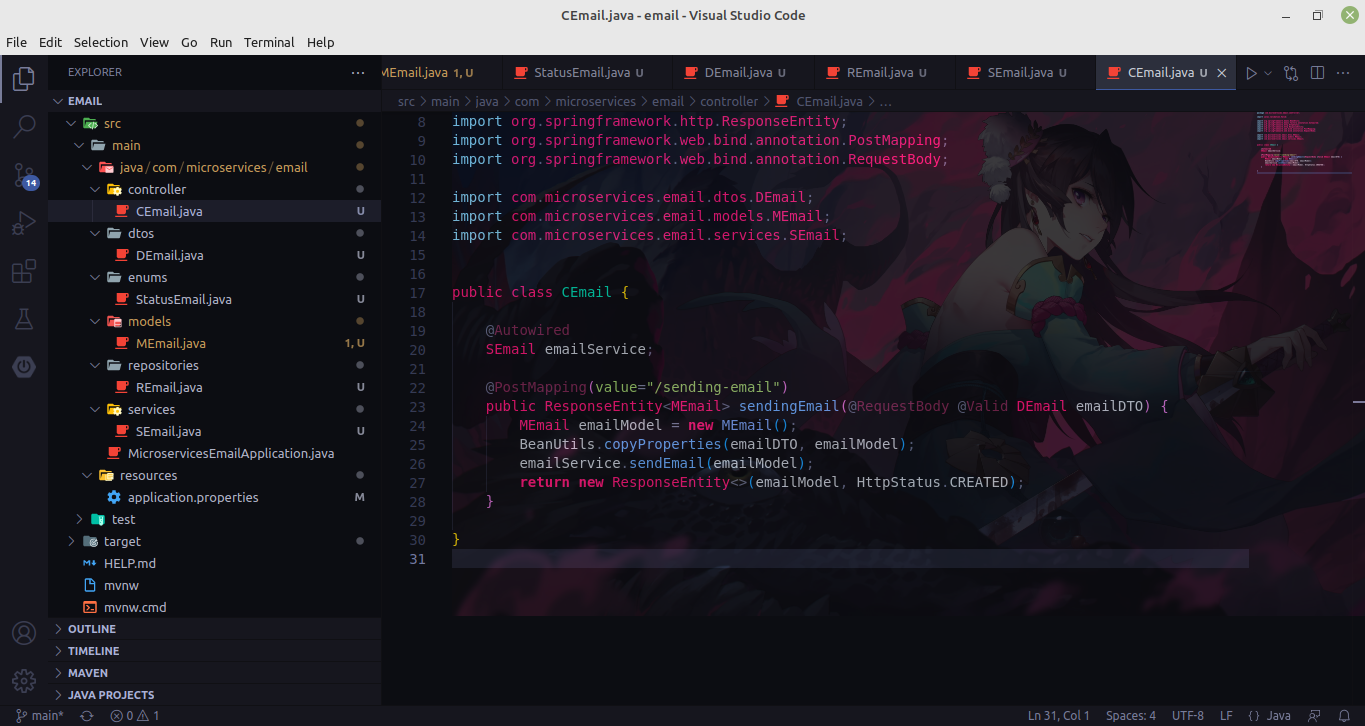
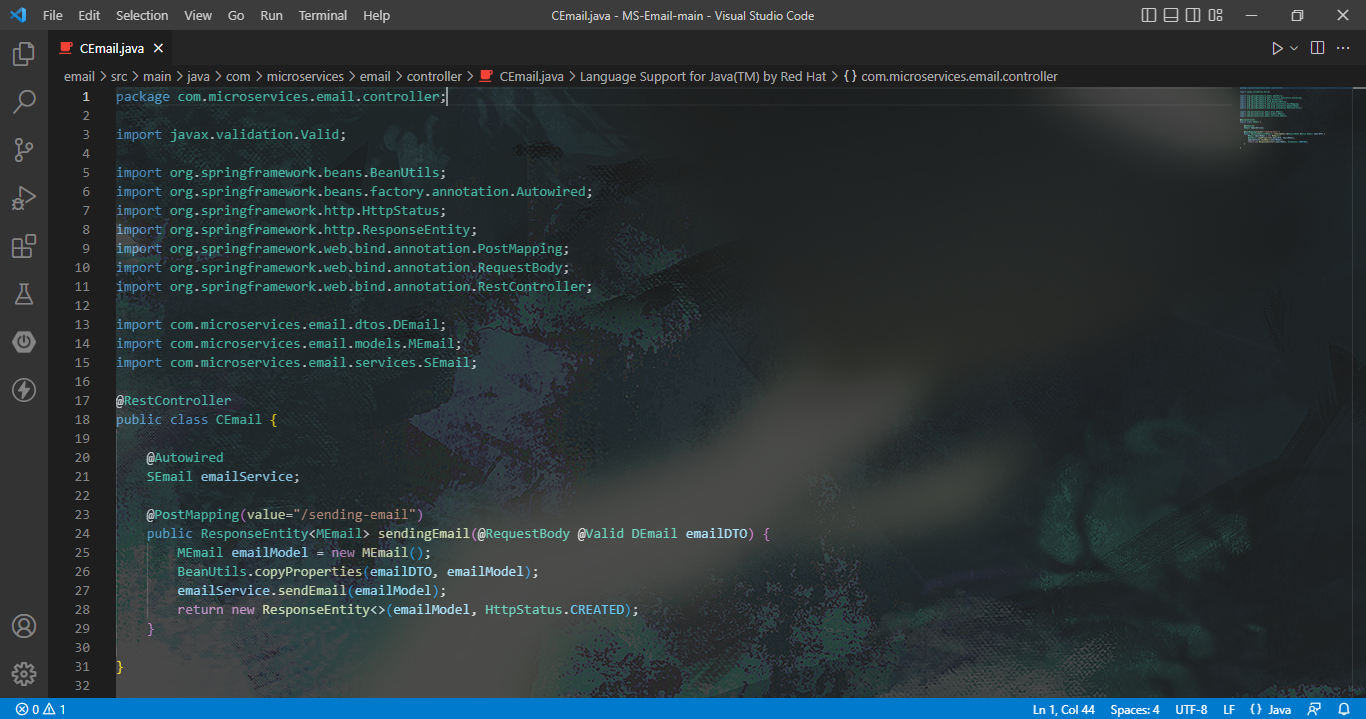
Add files via upload

diff --git a/email/src/main/java/com/microservices/email/services/SEmail.java b/email/src/main/java/com/microservices/email/services/SEmail.java
@@ -1,8 +1,14 @@
 package com.microservices.email.services;
 
+import java.time.LocalDateTime;
+
 import org.springframework.beans.factory.annotation.Autowired;
+import org.springframework.mail.MailException;
+import org.springframework.mail.SimpleMailMessage;
+import org.springframework.mail.javamail.JavaMailSender;
 import org.springframework.stereotype.Service;
 
+import com.microservices.email.enums.StatusEmail;
 import com.microservices.email.models.MEmail;
 import com.microservices.email.repositories.REmail;
 
@@ -12,7 +18,24 @@ public class SEmail {
     @Autowired // Ponto de inserção de dados
     REmail emailRepository;
 
-    public void sendEmail(MEmail emailModel){
-  
+    @Autowired
+    private JavaMailSender emailSender;
+
+    public MEmail sendEmail(MEmail emailModel){
+        emailModel.setSendDateEmail(LocalDateTime.now());
+        try{
+            SimpleMailMessage message = new SimpleMailMessage();
+            message.setFrom(emailModel.getEmailFrom());
+            message.setTo(emailModel.getEmailTo());
+            message.setSubject(emailModel.getSubject());
+            message.setText(emailModel.getText());
+            emailSender.send(message);
+
+            emailModel.setStatusEmail(StatusEmail.SENT);
+        } catch (MailException e){
+            emailModel.setStatusEmail(StatusEmail.ERROR);
+        } finally {
+            return emailRepository.save(emailModel);
+        }
     }
 }

diff --git a/email/src/main/java/com/microservices/email/models/MEmail.java b/email/src/main/java/com/microservices/email/models/MEmail.java
@@ -1,5 +1,6 @@
 package com.microservices.email.models;
 
+import java.io.Serializable;
 import java.time.LocalDateTime;
 
 import javax.persistence.Column;
@@ -16,14 +17,14 @@ import lombok.Data;
 @Data // Criação de construtores automatizada
 @Entity // É uma entidade por compor uma banco de dados
 @Table(name = "TB_EMAIL") // Nome da tabela
-public class MEmail {
+public class MEmail implements Serializable{
 
     private static final long serialVersionUID = 1L;
 
     @Id
     @GeneratedValue(strategy = GenerationType.AUTO)
     // Geração de e-mails automatica
-    private long emailId;
+    private Long emailId;
     private String ownerRef; // O proprietário da mensagem
     private String emailFrom; // De quem vem
     private String emailTo; // Para quem envia

diff --git a/email/src/main/java/com/microservices/email/controller/CEmail.java b/email/src/main/java/com/microservices/email/controller/CEmail.java
@@ -8,12 +8,13 @@ import org.springframework.http.HttpStatus;
 import org.springframework.http.ResponseEntity;
 import org.springframework.web.bind.annotation.PostMapping;
 import org.springframework.web.bind.annotation.RequestBody;
+import org.springframework.web.bind.annotation.RestController;
 
 import com.microservices.email.dtos.DEmail;
 import com.microservices.email.models.MEmail;
 import com.microservices.email.services.SEmail;
 
-
+@RestController
 public class CEmail {
     
     @Autowired

diff --git a/email/src/main/java/com/microservices/email/repositories/REmail.java b/email/src/main/java/com/microservices/email/repositories/REmail.java
@@ -1,9 +1,11 @@
 package com.microservices.email.repositories;
 
+import java.util.UUID;
+
 import org.springframework.data.jpa.repository.JpaRepository;
 
 import com.microservices.email.models.MEmail;
 
-public interface REmail extends JpaRepository<MEmail, Long>{
+public interface REmail extends JpaRepository<MEmail, UUID>{
     
 }
